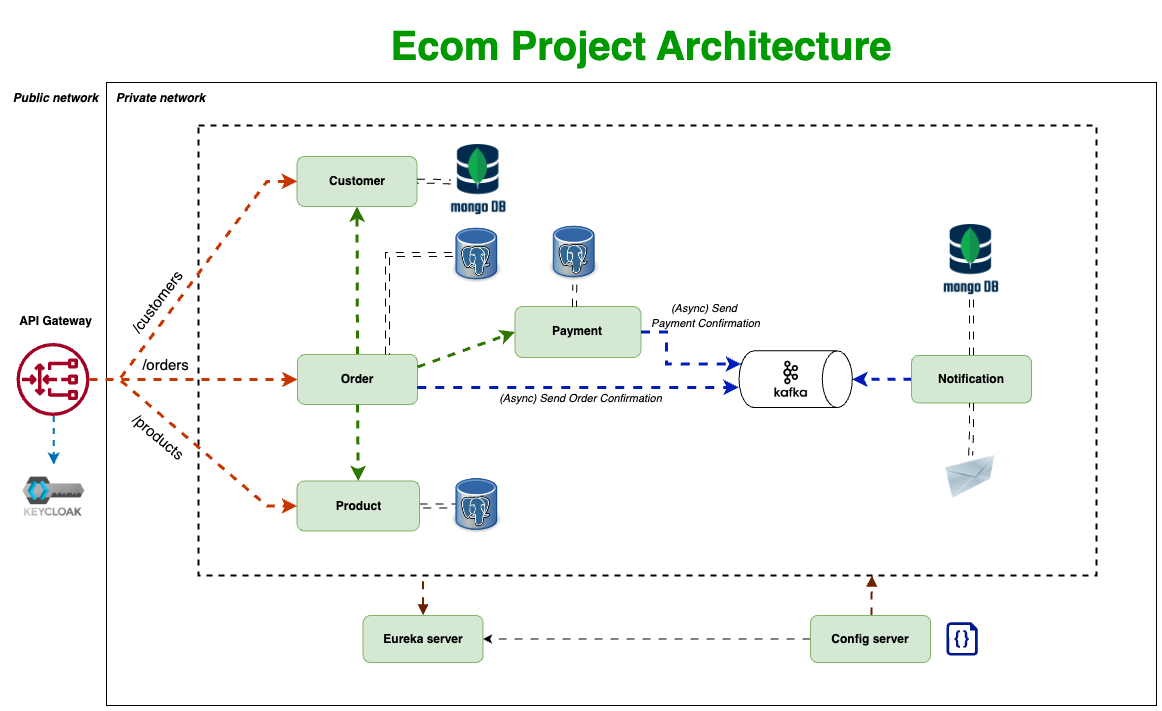
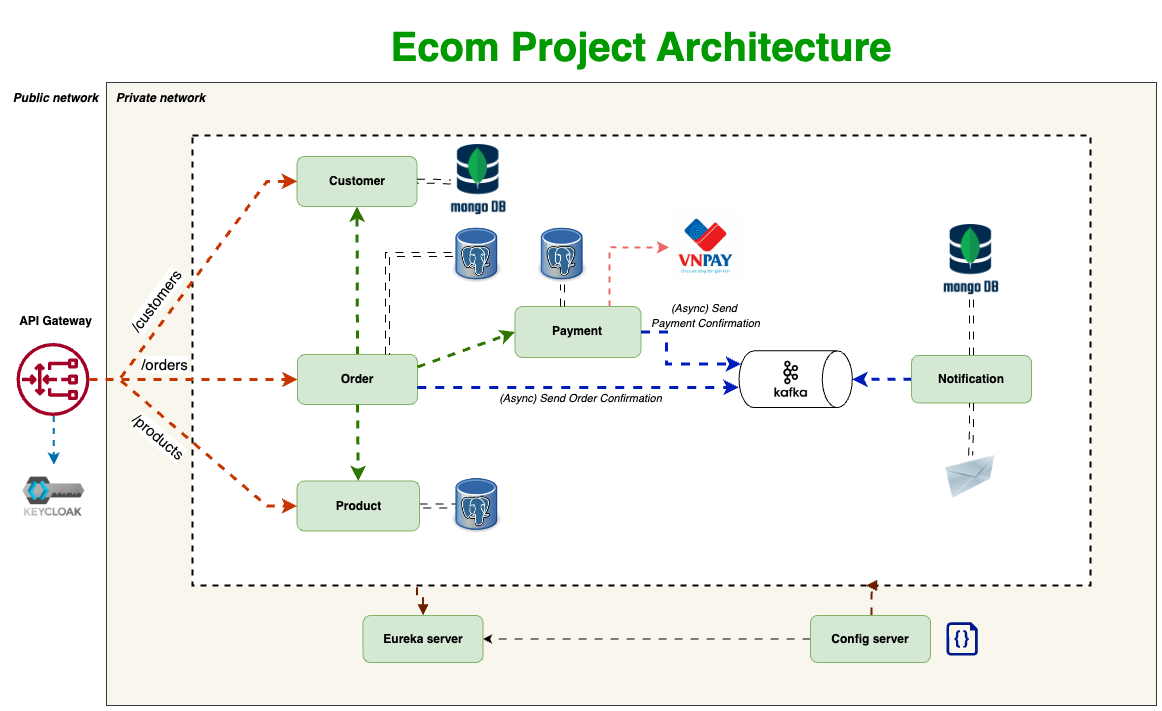
docs: update architecture with VNPay integration

diff --git a/README.md b/README.md
@@ -5,7 +5,7 @@
 2. **Customer Service**: Handles operations related to customer management, such as registration, and profile updates.
 3. **Product Service**: Manages product information, including details like price, available quantity, and descriptions.
 4. **Order Service**: Manages orders placed by customers. It interacts with the Customer Service to validate customer details and the Product Service to confirm product availability. It asynchronously sends payment confirmation to the Notification Service via Kafka
-5. **Payment Service**: Handles payment processing for orders. It asynchronously sends payment confirmation to the Notification Service via Kafka.
+5. **Payment Service**: Handles payment processing for orders. Incorporated VNPAY for secure and diverse payment options, broadening the platform's financial capabilities. It asynchronously sends payment confirmation to the Notification Service via Kafka.
 6. **Notification Service**: Consume messages from Kafka (order and payment confirmations) and sends email to customers.
 7. **Discovery Service** (Eureka Server): It allows microservices to find and communicate with each other dynamically.
 8. **Config Server**: centralizes configuration management, enabling services to fetch their configurations at runtime from a version-controlled repository.
